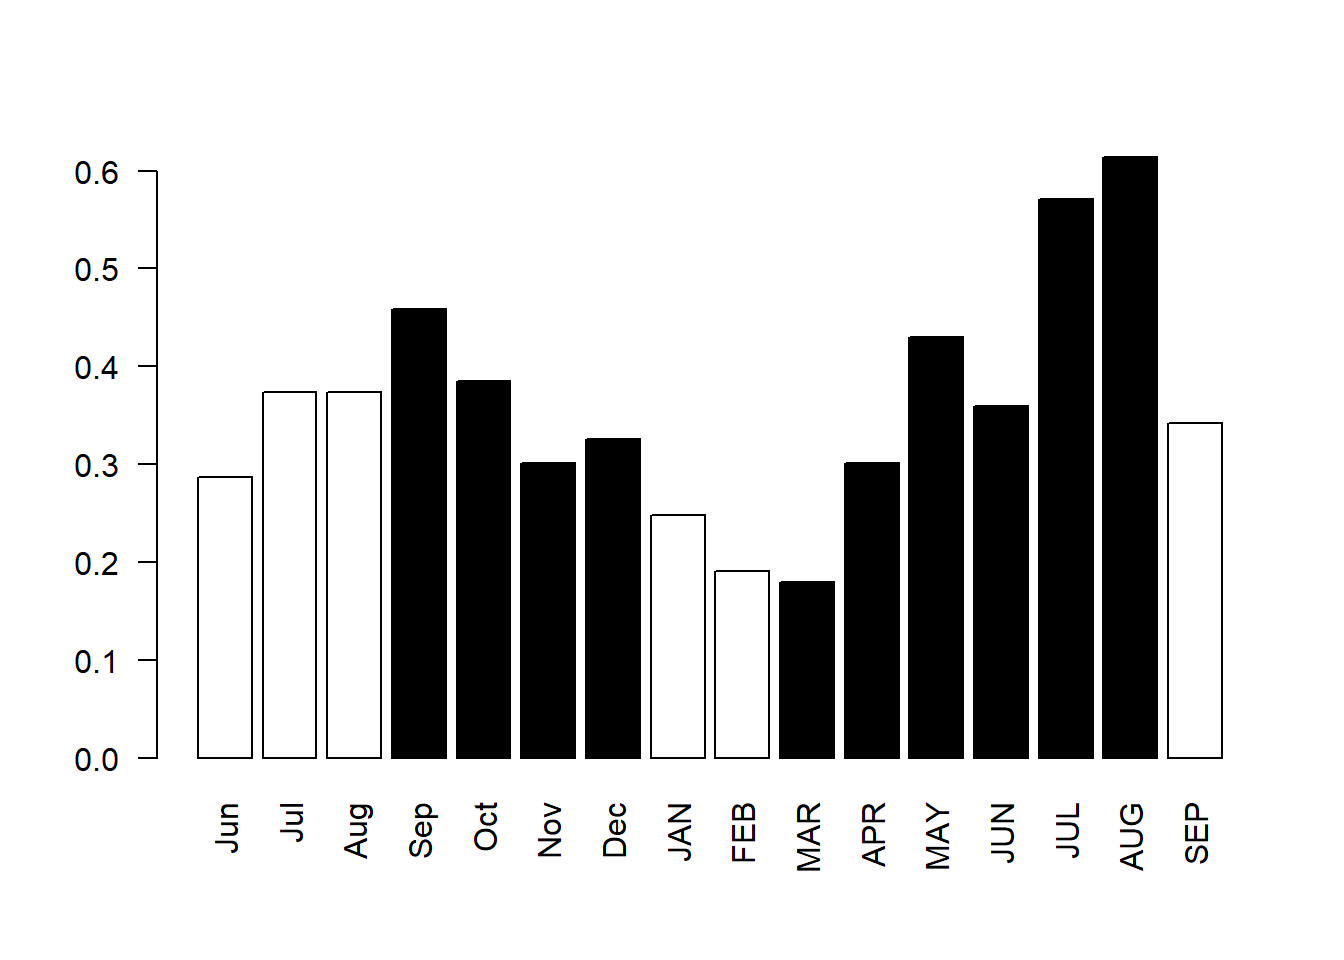
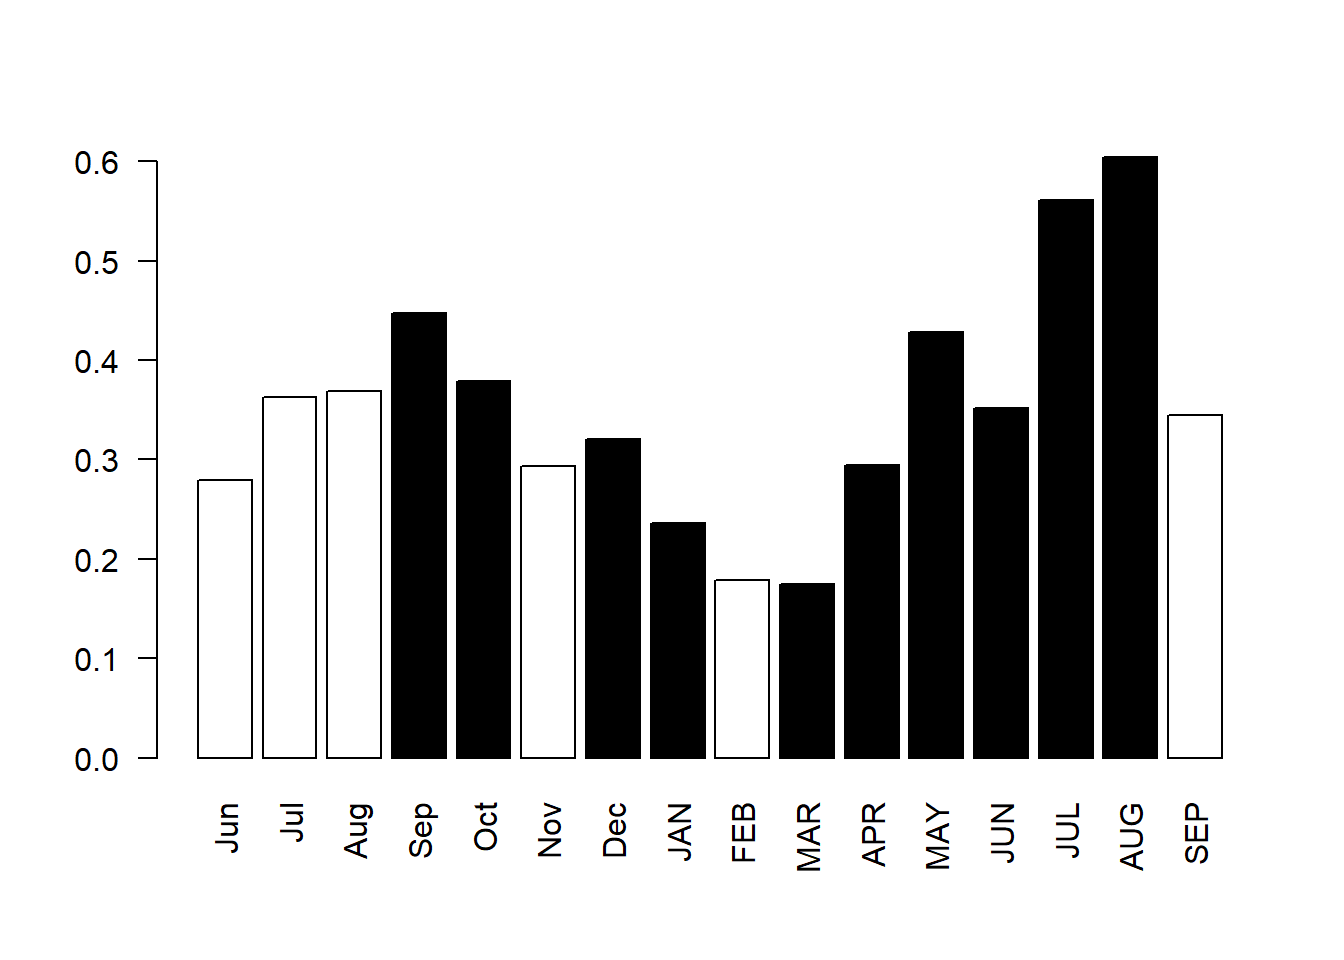
Re-compiling

diff --git a/R-code/04R-Response_transfer_functions.html b/R-code/04R-Response_transfer_functions.html
@@ -348,26 +348,26 @@ Cl=Cl[Cl$Year %in% row.names(Pivot.SC.crn),]</code></pre>
 ## 
 ## Coefficients:
 ##             id varname month  coef significant ci_lower ci_upper
-## X3.prev.jun  1      X3   Jun 0.287       FALSE   -0.042    0.480
-## X3.prev.jul  2      X3   Jul 0.374       FALSE   -0.067    0.628
-## X3.prev.aug  3      X3   Aug 0.373       FALSE   -0.125    0.630
-## X3.prev.sep  4      X3   Sep 0.459        TRUE    0.107    0.664
-## X3.prev.oct  5      X3   Oct 0.385        TRUE    0.142    0.573
-## X3.prev.nov  6      X3   Nov 0.301        TRUE    0.001    0.544
-## X3.prev.dec  7      X3   Dec 0.326        TRUE    0.008    0.507
-## X3.curr.jan  8      X3   JAN 0.248       FALSE   -0.008    0.446
-## X3.curr.feb  9      X3   FEB 0.191       FALSE   -0.017    0.361
-## X3.curr.mar 10      X3   MAR 0.180        TRUE    0.020    0.308
-## X3.curr.apr 11      X3   APR 0.301        TRUE    0.064    0.454
-## X3.curr.may 12      X3   MAY 0.430        TRUE    0.202    0.544
-## X3.curr.jun 13      X3   JUN 0.360        TRUE    0.027    0.606
-## X3.curr.jul 14      X3   JUL 0.571        TRUE    0.239    0.762
-## X3.curr.aug 15      X3   AUG 0.614        TRUE    0.279    0.783
-## X3.curr.sep 16      X3   SEP 0.342       FALSE   -0.045    0.637</code></pre>
+## X3.prev.jun  1      X3   Jun 0.279       FALSE   -0.053    0.481
+## X3.prev.jul  2      X3   Jul 0.363       FALSE   -0.086    0.622
+## X3.prev.aug  3      X3   Aug 0.369       FALSE   -0.143    0.616
+## X3.prev.sep  4      X3   Sep 0.447        TRUE    0.114    0.648
+## X3.prev.oct  5      X3   Oct 0.378        TRUE    0.134    0.565
+## X3.prev.nov  6      X3   Nov 0.294       FALSE   -0.020    0.536
+## X3.prev.dec  7      X3   Dec 0.320        TRUE    0.009    0.496
+## X3.curr.jan  8      X3   JAN 0.236        TRUE    0.008    0.431
+## X3.curr.feb  9      X3   FEB 0.179       FALSE   -0.038    0.352
+## X3.curr.mar 10      X3   MAR 0.175        TRUE    0.022    0.305
+## X3.curr.apr 11      X3   APR 0.294        TRUE    0.049    0.458
+## X3.curr.may 12      X3   MAY 0.428        TRUE    0.213    0.534
+## X3.curr.jun 13      X3   JUN 0.351        TRUE    0.017    0.597
+## X3.curr.jul 14      X3   JUL 0.561        TRUE    0.243    0.756
+## X3.curr.aug 15      X3   AUG 0.604        TRUE    0.265    0.777
+## X3.curr.sep 16      X3   SEP 0.345       FALSE   -0.040    0.607</code></pre>
 <pre class="r"><code>plot(Pivot.SC.crn.cor)</code></pre>
-<p><img src="03R-Response_transfer_functions_files/figure-html/unnamed-chunk-2-1.png" width="672" /></p>
+<p><img src="04R-Response_transfer_functions_files/figure-html/unnamed-chunk-2-1.png" width="672" /></p>
 <pre class="r"><code>barplot(Pivot.SC.crn.cor$coef$coef,col = Pivot.SC.crn.cor$coef$significant,names.arg = Pivot.SC.crn.cor$coef$month,las=2)</code></pre>
-<p><img src="03R-Response_transfer_functions_files/figure-html/unnamed-chunk-2-2.png" width="672" /></p>
+<p><img src="04R-Response_transfer_functions_files/figure-html/unnamed-chunk-2-2.png" width="672" /></p>
 <pre class="r"><code>Pivot.SC.crn.res=dcc(Pivot.SC.crn,Cl,method = &quot;response&quot;,dynamic = &quot;static&quot;)</code></pre>
 <pre><code>## Running for timespan 1902 - 2016...</code></pre>
 <pre class="r"><code>summary(Pivot.SC.crn.res)</code></pre>
@@ -397,27 +397,27 @@ Cl=Cl[Cl$Year %in% row.names(Pivot.SC.crn),]</code></pre>
 ## X3.curr.sep
 ## 
 ## Coefficients:
-##             id varname month   coef significant ci_lower ci_upper
-## X3.prev.jun  1      X3   Jun  0.003       FALSE   -0.115    0.082
-## X3.prev.jul  2      X3   Jul  0.022       FALSE   -0.083    0.104
-## X3.prev.aug  3      X3   Aug  0.073       FALSE   -0.125    0.148
-## X3.prev.sep  4      X3   Sep  0.163        TRUE    0.014    0.257
-## X3.prev.oct  5      X3   Oct  0.143        TRUE    0.042    0.250
-## X3.prev.nov  6      X3   Nov  0.063       FALSE   -0.068    0.199
-## X3.prev.dec  7      X3   Dec  0.033       FALSE   -0.097    0.126
-## X3.curr.jan  8      X3   JAN  0.069       FALSE   -0.088    0.186
-## X3.curr.feb  9      X3   FEB -0.003       FALSE   -0.129    0.128
-## X3.curr.mar 10      X3   MAR  0.049       FALSE   -0.044    0.159
-## X3.curr.apr 11      X3   APR  0.073       FALSE   -0.039    0.193
-## X3.curr.may 12      X3   MAY  0.130        TRUE    0.017    0.263
-## X3.curr.jun 13      X3   JUN  0.013       FALSE   -0.140    0.154
-## X3.curr.jul 14      X3   JUL  0.187        TRUE    0.093    0.259
-## X3.curr.aug 15      X3   AUG  0.212        TRUE    0.091    0.325
-## X3.curr.sep 16      X3   SEP  0.081       FALSE   -0.061    0.227</code></pre>
+##             id varname month  coef significant ci_lower ci_upper
+## X3.prev.jun  1      X3   Jun 0.000       FALSE   -0.127    0.085
+## X3.prev.jul  2      X3   Jul 0.023       FALSE   -0.074    0.105
+## X3.prev.aug  3      X3   Aug 0.074       FALSE   -0.114    0.157
+## X3.prev.sep  4      X3   Sep 0.163        TRUE    0.016    0.258
+## X3.prev.oct  5      X3   Oct 0.144        TRUE    0.036    0.249
+## X3.prev.nov  6      X3   Nov 0.061       FALSE   -0.054    0.220
+## X3.prev.dec  7      X3   Dec 0.026       FALSE   -0.119    0.136
+## X3.curr.jan  8      X3   JAN 0.067       FALSE   -0.091    0.190
+## X3.curr.feb  9      X3   FEB 0.004       FALSE   -0.118    0.132
+## X3.curr.mar 10      X3   MAR 0.049       FALSE   -0.052    0.168
+## X3.curr.apr 11      X3   APR 0.074       FALSE   -0.036    0.183
+## X3.curr.may 12      X3   MAY 0.128        TRUE    0.014    0.266
+## X3.curr.jun 13      X3   JUN 0.025       FALSE   -0.149    0.155
+## X3.curr.jul 14      X3   JUL 0.185        TRUE    0.098    0.260
+## X3.curr.aug 15      X3   AUG 0.211        TRUE    0.084    0.320
+## X3.curr.sep 16      X3   SEP 0.083       FALSE   -0.051    0.221</code></pre>
 <pre class="r"><code>plot(Pivot.SC.crn.res)</code></pre>
-<p><img src="03R-Response_transfer_functions_files/figure-html/unnamed-chunk-2-3.png" width="672" /></p>
+<p><img src="04R-Response_transfer_functions_files/figure-html/unnamed-chunk-2-3.png" width="672" /></p>
 <pre class="r"><code>barplot(Pivot.SC.crn.res$coef$coef,col = Pivot.SC.crn.res$coef$significant,names.arg = Pivot.SC.crn.res$coef$month,las=2)</code></pre>
-<p><img src="03R-Response_transfer_functions_files/figure-html/unnamed-chunk-2-4.png" width="672" /></p>
+<p><img src="04R-Response_transfer_functions_files/figure-html/unnamed-chunk-2-4.png" width="672" /></p>
 <p>(2b). Use the function <em>dlm</em> of <strong>treeclim</strong> to verify the adjustment of the response function obtained in step 2a. In step 2a, we see that the retained months of the response function analysis are previous September, previous October, and current May, July and August. We can thus set <em>selection=c(-9,-10,5,7,8)</em> as an argument of the function. A summary is obtained with the function <em>summary</em>. What is the variance explained by the model?</p>
 <pre class="r"><code>Mylm2=dlm(Pivot.SC.crn,Cl,selection=c(-9,-10,5,7,8))</code></pre>
 <pre><code>## Running for timespan 1902 - 2016...</code></pre>
@@ -453,7 +453,7 @@ plot(Pivot.SC.crn.res$truncated$tree,predict(Mylm2),
      xlab=&quot;OBS&quot;,
      ylab=&quot;RESPONSE FUNCTION MODEL&quot;)
 lines(c(-100,100),c(-100,100))</code></pre>
-<p><img src="03R-Response_transfer_functions_files/figure-html/unnamed-chunk-4-1.png" width="672" /></p>
+<p><img src="04R-Response_transfer_functions_files/figure-html/unnamed-chunk-4-1.png" width="672" /></p>
 </div>
 <div id="transfer-function-analysis-linear-scaling" class="section level2">
 <h2>3. Transfer function analysis: Linear scaling</h2>
@@ -477,7 +477,7 @@ lines(MyYear,jul_aug,col=2)
 xx &lt;- c(min(Calibration), min(Calibration), max(Calibration), max(Calibration))
 yy &lt;- c(-100, 100, 100, -100)
 polygon(xx, yy, col = &quot;grey80&quot;,density=40)</code></pre>
-<p><img src="03R-Response_transfer_functions_files/figure-html/unnamed-chunk-7-1.png" width="672" /></p>
+<p><img src="04R-Response_transfer_functions_files/figure-html/unnamed-chunk-7-1.png" width="672" /></p>
 <p>(3b) Compute the following statistics that may be used to assess the quality of a reconstruction:</p>
 <ul>
 <li><p>Correlation between the climate and the reconstruction over the full, the calibration and the verification period</p></li>

diff --git a/R-code/03-Post-processing_and_statistics.html b/R-code/03-Post-processing_and_statistics.html
@@ -312,14 +312,14 @@ str(wa082)</code></pre>
 <p>(1a). Use the function <em>summary</em> of <strong>dplR</strong> to compute descriptive statistics of individual tree-ring series. From the results, compute the mean sample length, the mean standard deviation, the mean tree-ring width, and the mean first order autocorrelation.</p>
 <p>(1b). Use the function <em>interseries.cor</em> of <strong>dplR</strong> to compute the individual series correlation against the master chronology and obtain the mean value.</p>
 <p>(1c). Visualize rapidly the data with <strong>dplR</strong>. Plot the time spans of individual series (function <em>seg.plot</em>; segment plot) and visualize all tree-ring width series (option <em>plot.type=“spag”</em> of the function <em>plot</em>; spaghetti plot).</p>
-<p><img src="02-Post-processing_and_statistics_files/figure-html/unnamed-chunk-4-1.png" width="672" /><img src="02-Post-processing_and_statistics_files/figure-html/unnamed-chunk-4-2.png" width="672" /></p>
+<p><img src="03-Post-processing_and_statistics_files/figure-html/unnamed-chunk-4-1.png" width="672" /><img src="03-Post-processing_and_statistics_files/figure-html/unnamed-chunk-4-2.png" width="672" /></p>
 <p>(1d). Standardize the data detrending each series with a spline that has a frequency response of 50% at a wavelength of 2/3 of each series’s length. This step transforms tree-ring widths in indexes. To achieve this step, use the function <em>detrend</em> of <strong>dplR</strong> with the option <em>method=“Spline”</em>. Finally visualize the spaghetti plot of these new data and compare this plot with the previous one obtained in <em>(1c)</em>.</p>
-<p><img src="02-Post-processing_and_statistics_files/figure-html/unnamed-chunk-5-1.png" width="672" /></p>
+<p><img src="03-Post-processing_and_statistics_files/figure-html/unnamed-chunk-5-1.png" width="672" /></p>
 </div>
 <div id="chronology-building-and-descriptive-statistics" class="section level2">
 <h2>2. Chronology building and descriptive statistics</h2>
 <p>(2a). Build a mean-value chronology by averaging the rows of the rwi data using a Tukey’s biweight robust mean. To achieve this step, use the function <em>chron</em> of <strong>dplR</strong>. You can assign a name to the chronology by using the optpion <em>prefix</em>. Explore the obtained chronology dataframe and plot the chronology (function <em>plot</em>) superimposing a 30-year smoothing spline for visualization (option <em>add.spline=TRUE, nyrs=30</em>).</p>
-<p><img src="02-Post-processing_and_statistics_files/figure-html/unnamed-chunk-6-1.png" width="672" /></p>
+<p><img src="03-Post-processing_and_statistics_files/figure-html/unnamed-chunk-6-1.png" width="672" /></p>
 <p>(2b). Compute standard statistics for chronologies with <strong>dplR</strong>. The first step is to correctly assign site, tree, and core IDs to each sample composing the chronology from the rwl data.frame (use the function <em>autoread.ids</em> of <strong>dplR</strong>). Then you compute standard statistics with the function <em>rwi.stats.running</em>. You should specify site, tree, and core IDs of each sample and the window overlap (<em>window.overlap</em>) of contiguous 50 year blocks where the statistic are computed. The result is a data.frame containing the following columns:</p>
 <p><strong>n =</strong> the average number of trees (for each year, a tree needs at least one non-NA core in order to be counted).</p>
 <p><strong>n.tot =</strong> total number of correlations calculated as n.wt + n.bt.</p>
@@ -372,7 +372,7 @@ mtext(&quot;EPS&quot;, side = 4, line = 1.1)
 box()
 par(new = TRUE)
 plot(wa082.ids.stats$mid.year, wa082.ids.stats$rbar.eff, type = &quot;l&quot;, xlab = &quot;&quot;, ylab = &quot;&quot;,axes = FALSE, col = 1,xlim=range(yrs),ylim=c(0,1))</code></pre>
-<p><img src="02-Post-processing_and_statistics_files/figure-html/unnamed-chunk-9-1.png" width="672" /></p>
+<p><img src="03-Post-processing_and_statistics_files/figure-html/unnamed-chunk-9-1.png" width="672" /></p>
 </div>
 
 

diff --git a/R-code/03R-Post-processing_and_statistics.html b/R-code/03R-Post-processing_and_statistics.html
@@ -340,9 +340,9 @@ head(wa082.sum)</code></pre>
 <pre><code>## [1] 0.5637096</code></pre>
 <p>(1c). Visualize rapidly the data with <strong>dplR</strong>. Plot the time spans of individual series (function <em>seg.plot</em>; segment plot) and visualize all tree-ring width series (option <em>plot.type=“spag”</em> of the function <em>plot</em>; spaghetti plot).</p>
 <pre class="r"><code>seg.plot(wa082)</code></pre>
-<p><img src="02R-Post-processing_and_statistics_files/figure-html/unnamed-chunk-4-1.png" width="672" /></p>
+<p><img src="03R-Post-processing_and_statistics_files/figure-html/unnamed-chunk-4-1.png" width="672" /></p>
 <pre class="r"><code>plot(wa082, plot.type=&quot;spag&quot;)</code></pre>
-<p><img src="02R-Post-processing_and_statistics_files/figure-html/unnamed-chunk-4-2.png" width="672" /></p>
+<p><img src="03R-Post-processing_and_statistics_files/figure-html/unnamed-chunk-4-2.png" width="672" /></p>
 <p>(1d). Standardize the data detrending each series with a spline that has a frequency response of 50% at a wavelength of 2/3 of each series’s length. This step transforms tree-ring widths in indexes. To achieve this step, use the function <em>detrend</em> of <strong>dplR</strong> with the option <em>method=“Spline”</em>. Finally visualize the spaghetti plot of these new data and compare this plot with the previous one obtained in <em>(1c)</em>.</p>
 <pre class="r"><code>wa082.rwi &lt;- detrend(wa082, method=&quot;Spline&quot;)
 str(wa082.rwi)</code></pre>
@@ -371,7 +371,7 @@ str(wa082.rwi)</code></pre>
 ##  $ 712121: num  NA NA NA NA NA NA NA NA NA NA ...
 ##  $ 712122: num  0.986 0.796 0.807 0.559 0.617 ...</code></pre>
 <pre class="r"><code>spag.plot(wa082.rwi)</code></pre>
-<p><img src="02R-Post-processing_and_statistics_files/figure-html/unnamed-chunk-5-1.png" width="672" /></p>
+<p><img src="03R-Post-processing_and_statistics_files/figure-html/unnamed-chunk-5-1.png" width="672" /></p>
 </div>
 <div id="chronology-building-and-descriptive-statistics" class="section level2">
 <h2>2. Chronology building and descriptive statistics</h2>
@@ -391,7 +391,7 @@ str(wa082.crn)</code></pre>
 ## 1982 0.8961536         22
 ## 1983 0.9714484         22</code></pre>
 <pre class="r"><code>plot(wa082.crn, add.spline=TRUE, nyrs=30)</code></pre>
-<p><img src="02R-Post-processing_and_statistics_files/figure-html/unnamed-chunk-6-1.png" width="672" /></p>
+<p><img src="03R-Post-processing_and_statistics_files/figure-html/unnamed-chunk-6-1.png" width="672" /></p>
 <p>(2b). Compute standard statistics for chronologies with <strong>dplR</strong>. The first step is to correctly assign site, tree, and core IDs to each sample composing the chronology from the rwl data.frame (use the function <em>autoread.ids</em> of <strong>dplR</strong>). Then you compute standard statistics with the function <em>rwi.stats.running</em>. You should specify site, tree, and core IDs of each sample and the window overlap (<em>window.overlap</em>) of contiguous 50 year blocks where the statistic are computed. The result is a data.frame containing the following columns:</p>
 <p><strong>n =</strong> the average number of trees (for each year, a tree needs at least one non-NA core in order to be counted).</p>
 <p><strong>n.tot =</strong> total number of correlations calculated as n.wt + n.bt.</p>
@@ -472,7 +472,7 @@ mtext(&quot;EPS&quot;, side = 4, line = 1.1)
 box()
 par(new = TRUE)
 plot(wa082.ids.stats$mid.year, wa082.ids.stats$rbar.eff, type = &quot;l&quot;, xlab = &quot;&quot;, ylab = &quot;&quot;,axes = FALSE, col = 1,xlim=range(yrs),ylim=c(0,1))</code></pre>
-<p><img src="02R-Post-processing_and_statistics_files/figure-html/unnamed-chunk-9-1.png" width="672" /></p>
+<p><img src="03R-Post-processing_and_statistics_files/figure-html/unnamed-chunk-9-1.png" width="672" /></p>
 </div>
 
 

diff --git a/R-code/04-Response_transfer_functions.html b/R-code/04-Response_transfer_functions.html
@@ -318,7 +318,7 @@ str(Pivot.SC.crn)</code></pre>
 Pivot.SC.crn=Pivot.SC.crn[row.names(Pivot.SC.crn) %in%  Cl$Year,]
 Cl=Cl[Cl$Year %in% row.names(Pivot.SC.crn),]</code></pre>
 <p>(2a). Use the function <em>dcc</em> of <strong>treeclim</strong> to perform, first, climate-growth correlation analysis (method = “correlation”), second, climate-growth response function analysis (method = “response”). The results can be visualized with the functions <em>summary</em>, <em>plot</em> and <em>barplot</em>. Comment the results and figures.</p>
-<p><img src="03-Response_transfer_functions_files/figure-html/unnamed-chunk-2-1.png" width="672" /><img src="03-Response_transfer_functions_files/figure-html/unnamed-chunk-2-2.png" width="672" /><img src="03-Response_transfer_functions_files/figure-html/unnamed-chunk-2-3.png" width="672" /><img src="03-Response_transfer_functions_files/figure-html/unnamed-chunk-2-4.png" width="672" /></p>
+<p><img src="04-Response_transfer_functions_files/figure-html/unnamed-chunk-2-1.png" width="672" /><img src="04-Response_transfer_functions_files/figure-html/unnamed-chunk-2-2.png" width="672" /><img src="04-Response_transfer_functions_files/figure-html/unnamed-chunk-2-3.png" width="672" /><img src="04-Response_transfer_functions_files/figure-html/unnamed-chunk-2-4.png" width="672" /></p>
 <p>(2b). Use the function <em>dlm</em> of <strong>treeclim</strong> to verify the adjustment of the response function obtained in step 2a. In step 2a, we see that the retained months of the response function analysis are previous September, previous October, and current May, July and August. We can thus set <em>selection=c(-9,-10,5,7,8)</em> as an argument of the function. A summary is obtained with the function <em>summary</em>. What is the variance explained by the model?</p>
 <pre><code>## Running for timespan 1902 - 2016...</code></pre>
 <pre><code>## 
@@ -344,7 +344,7 @@ Cl=Cl[Cl$Year %in% row.names(Pivot.SC.crn),]</code></pre>
 ## Multiple R-squared:  0.567,  Adjusted R-squared:  0.5471 
 ## F-statistic: 28.54 on 5 and 109 DF,  p-value: &lt; 2.2e-16</code></pre>
 <p>(2c). Produce a scatterplot of observed tree-ring data (<em>YOUR_RESPONSE_LIST$truncated$tree</em>) versus predicted tree ring data by the response function model (<em>predict(YOUR_RESPONSE_MODEL)</em>). Comment on the plot.</p>
-<p><img src="03-Response_transfer_functions_files/figure-html/unnamed-chunk-4-1.png" width="672" /></p>
+<p><img src="04-Response_transfer_functions_files/figure-html/unnamed-chunk-4-1.png" width="672" /></p>
 </div>
 <div id="transfer-function-analysis-linear-scaling" class="section level2">
 <h2>3. Transfer function analysis: Linear scaling</h2>
@@ -356,7 +356,7 @@ MyYear=Cl$Year</code></pre>
 <p>The linear scaling is the simplest transfer function method that transform tree-ring data to have same mean and SD of the climate data over the calibration period with the following formula:</p>
 <p><span class="math inline">\(REC_{i} = (TR_{i} - MeanTR_{cal}) * (SDClim_{cal}/SDTR_{cal}) + MeanClim_{cal}\)</span></p>
 <p>(3a). Recunstruct the 1901-2016 July-August mean temperature values based on the selected calibration period and on the linear scaling formula. Then, plot the results as shown here below (the black line is the tree-ring based reconstruction and the hatched area is the calibration period).</p>
-<p><img src="03-Response_transfer_functions_files/figure-html/unnamed-chunk-7-1.png" width="672" /></p>
+<p><img src="04-Response_transfer_functions_files/figure-html/unnamed-chunk-7-1.png" width="672" /></p>
 <p>(3b) Compute the following statistics that may be used to assess the quality of a reconstruction:</p>
 <ul>
 <li><p>Correlation between the climate and the reconstruction over the full, the calibration and the verification period</p></li>

diff --git a/index.html b/index.html
@@ -387,14 +387,15 @@ summary {
 <p><a href="pdf/01-Anatomy_and_morphology.pdf">Lecture</a></p>
 <p><a href="R-code/03-Response_transfer_functions.html">Exercise</a></p></li>
 <li><p>Crossdating</p>
-<p><a href="pdf/02-crossdating.pdf">Lecture</a></p>
+<p><a href="pdf/02-crossdating.pdf">Lecture/Exercise</a></p>
 <p>Data: <a href="data/L18_TEST01.rwl">L18_TEST01.rwl</a>; <a href="data/L18_TEST02.rwl">L18_TEST02.rwl</a>; <a href="data/L18_TEST03.rwl">L18_TEST03.rwl</a></p></li>
 <li><p>Post-processing and statistics of dendrochronological series.</p>
 <p><a href="pdf/03-Post-processing_and_statistics.pdf">Lecture</a></p>
 <p><a href="R-code/03-Post-processing_and_statistics.html">Exercise</a></p></li>
 <li><p>Response functions and transfer functions</p>
 <p><a href="pdf/04-Response_transfer_functions.pdf">Lecture</a></p>
-<p><a href="R-code/04-Response_transfer_functions.html">Exercise</a></p></li>
+<p><a href="R-code/04-Response_transfer_functions.html">Exercise</a></p>
+<p>Data: <a href="data/Pivot.SC.crn.csv">Pivot.SC.crn.csv</a></p></li>
 </ol>
 </div>
 

diff --git a/index.md b/index.md
@@ -28,7 +28,7 @@ License][cc-by].
       
 2. Crossdating
 
-      [Lecture](pdf/02-crossdating.pdf)
+      [Lecture/Exercise](pdf/02-crossdating.pdf)
 
       Data: [L18_TEST01.rwl](data/L18_TEST01.rwl); [L18_TEST02.rwl](data/L18_TEST02.rwl); [L18_TEST03.rwl](data/L18_TEST03.rwl)
 
@@ -43,6 +43,8 @@ License][cc-by].
       [Lecture](pdf/04-Response_transfer_functions.pdf)
 
       [Exercise](R-code/04-Response_transfer_functions.html)
+      
+      Data: [Pivot.SC.crn.csv](data/Pivot.SC.crn.csv)
 
     
       
